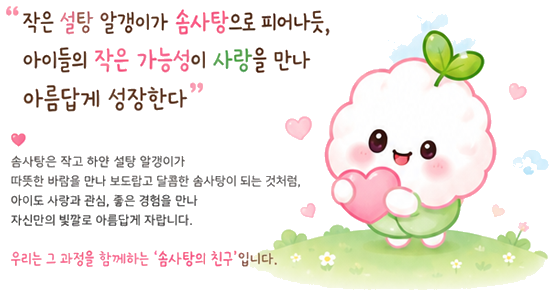
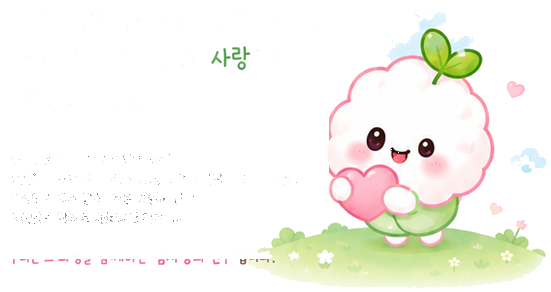
Recolor quote card text to white, de-halo mascot art, resize hero
- Recolor the quote card's pink/dark text to white (text region only,
  mascot untouched) so it reads over the hero photo.
- Add a white-contamination removal pass to the cutout pipeline to
  clear the leftover fringing around text and character edges.
- Drop the native duplicate hero text now that the quote card carries
  the full message, and give the illustration more room.
- Enlarge the nav/footer logo further.

diff --git a/index.html b/index.html
@@ -87,7 +87,7 @@ section { padding: 120px 0; position: relative; }
   border-bottom: 1px solid color-mix(in srgb, var(--line) 60%, transparent);
   box-shadow: var(--shadow-sm);
 }
-.nav-inner { display: flex; align-items: center; justify-content: space-between; height: 88px; }
+.nav-inner { display: flex; align-items: center; justify-content: space-between; height: 104px; }
 .brand {
   display: flex; align-items: center; gap: 12px;
   font-family: var(--font-display); font-weight: 700; font-size: 20px; white-space: nowrap;
@@ -100,7 +100,7 @@ section { padding: 120px 0; position: relative; }
   color: #fff; font-family: var(--font-accent); font-size: 18px;
   box-shadow: var(--shadow-sm); flex-shrink: 0;
 }
-.brand-logo-img { height: 78px; width: auto; display: block; flex-shrink: 0; }
+.brand-logo-img { height: 94px; width: auto; display: block; flex-shrink: 0; }
 /* hero 위에서는 흰색으로 */
 .nav:not(.scrolled) .brand { color: #fff; }
 .nav:not(.scrolled) .nav-links a { color: rgba(255,255,255,0.85); }
@@ -204,37 +204,17 @@ section { padding: 120px 0; position: relative; }
   content: ""; width: 6px; height: 6px; border-radius: 50%;
   background: var(--accent); flex-shrink: 0;
 }
-.hero-grid { display: grid; grid-template-columns: 1fr 1.15fr; gap: 32px; align-items: center; }
-.hero-quote {
-  font-family: var(--font-display); font-weight: 700;
-  font-size: clamp(24px, 3.4vw, 38px);
-  line-height: 1.4;
-  margin: 26px 0 20px;
-  color: #fff;
-  text-shadow: 0 2px 24px rgba(0,0,0,0.25);
-}
-.hero-quote .accent { color: var(--accent); }
-.hero-tagline {
-  font-family: var(--font-display); font-weight: 700; font-size: 16px;
-  color: var(--accent); margin-top: 16px;
-}
-.hero-sub {
-  font-family: var(--font-display);
-  font-size: clamp(16px, 1.4vw, 19px);
-  color: rgba(255,255,255,0.82);
-  max-width: 520px;
-  line-height: 1.75;
-}
-.hero-ctas { display: flex; gap: 14px; margin-top: 32px; flex-wrap: wrap; }
+.hero-grid { display: grid; grid-template-columns: 0.8fr 1.2fr; gap: 32px; align-items: center; }
+.hero-ctas { display: flex; gap: 14px; margin-top: 30px; flex-wrap: wrap; }
 .hero-illustration { display: flex; justify-content: center; }
 .hero-quote-card {
-  width: 100%; max-width: 640px; display: block;
+  width: 100%; max-width: 760px; display: block;
   filter: drop-shadow(0 18px 30px rgba(0,0,0,0.22));
 }
 @media (max-width: 900px) {
   .hero-grid { grid-template-columns: 1fr; }
   .hero-illustration { order: -1; }
-  .hero-quote-card { max-width: 420px; margin: 0 auto; }
+  .hero-quote-card { max-width: 480px; margin: 0 auto; }
 }
 .hero-scroll {
   position: absolute; bottom: 36px; left: 50%;
@@ -250,7 +230,6 @@ section { padding: 120px 0; position: relative; }
   50% { transform: translateX(-50%) translateY(6px); }
 }
 @media (max-width: 760px) {
-  .hero-quote { font-size: clamp(21px, 6vw, 30px); }
   .hero-ctas { flex-direction: column; align-items: flex-start; }
 }
 
@@ -599,9 +578,6 @@ footer { padding: 64px 0 40px; border-top: 1px solid var(--line); margin-top: 80
     <div class="container hero-grid">
       <div class="hero-text">
         <span class="hero-eyebrow">공공형 어린이집 · 2027학년도 원아 모집 중</span>
-        <p class="hero-quote">"작은 설탕 알갱이가 솜사탕으로 피어나듯,<br>아이들의 작은 가능성이 사랑을 만나<br><span class="accent">아름답게 성장한다</span>"</p>
-        <p class="hero-sub">솜사탕은 작고 하얀 설탕 알갱이가 따뜻한 바람을 만나 보드랍고 달콤한 솜사탕이 되는 것처럼, 아이도 사랑과 관심, 좋은 경험을 만나 자신만의 빛깔로 아름답게 자랍니다.</p>
-        <p class="hero-tagline">우리는 그 과정을 함께하는 '솜사탕의 친구'입니다.</p>
         <div class="hero-ctas">
           <a href="https://open.kakao.com/o/sK8pgg4g" target="_blank" rel="noopener" class="btn btn-sun btn-sm">
             <img src="images/mascot-hello.png" alt="" class="btn-sticker">
